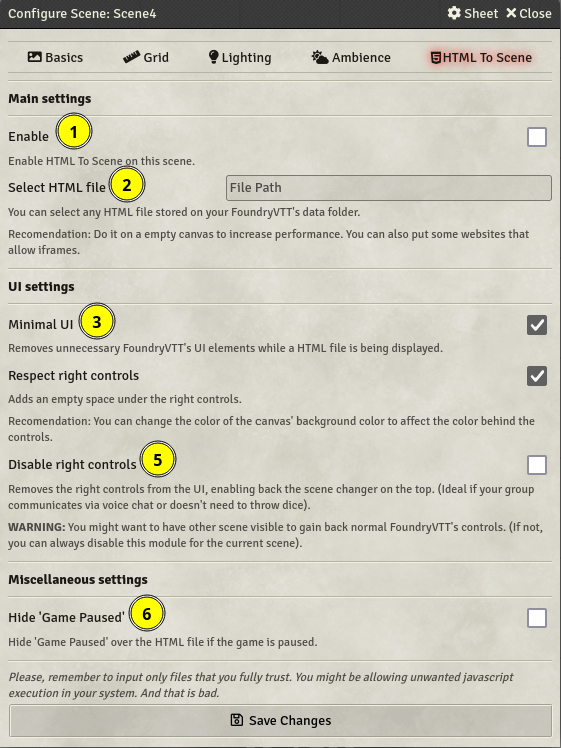
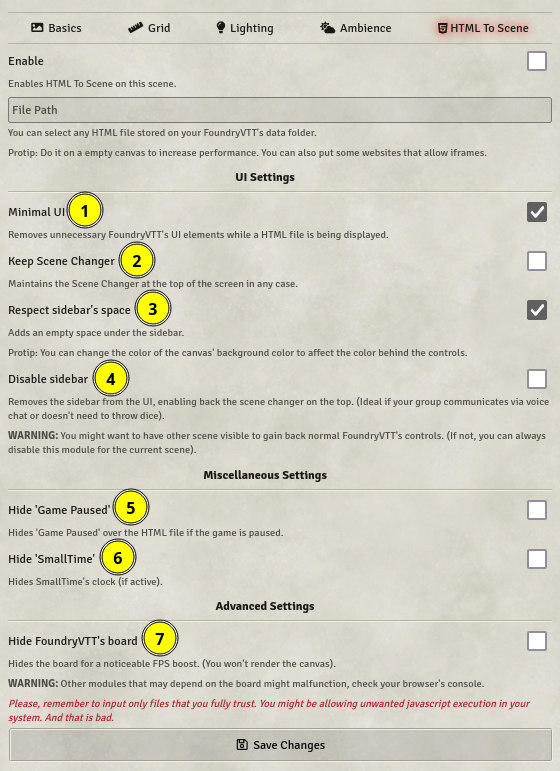
v1.1.0

diff --git a/templates/sceneSettings.html b/templates/sceneSettings.html
@@ -1,7 +1,4 @@
 <div class="tab" data-tab="htmltoscene">
-	<hr>
-	<label style="text-align:center;font-weight: bold;">{{ localize "htmltoscene.mainsettings" }}</label>
-	<hr>
 	<div class="form-group">
 		<label>{{ localize "htmltoscene.enable.name" }}</label>
 		<input type="checkbox" name="flags.htmltoscene.enable" data-dtype="Boolean" {{#if enable}} checked{{/if}}>
@@ -20,8 +17,7 @@
 		<p class="notes">{{ localize "htmltoscene.fileLoc.hint"}}</p>
 		<p class="notes">{{ localize "htmltoscene.recommendationtip" }}{{ localize "htmltoscene.fileLoc.tip" }}</p>
 	</div>
-	<hr>
-	<label style="text-align:center;font-weight: bold;">{{ localize "htmltoscene.uisettings" }}</label>
+	<p style="text-align:center;font-weight: bold;padding-right:30px">{{ localize "htmltoscene.uisettings" }}</p>
 	<hr>
 	<div class="form-group">
 		<label>{{ localize "htmltoscene.minUI.name" }}</label>
@@ -48,8 +44,7 @@
 		<p class="notes"><b>{{ localize "htmltoscene.warningtip" }}</b>{{ localize "htmltoscene.rightDisabled.tip" }}
 		</p>
 	</div>
-	<hr>
-	<label style="text-align:center;font-weight: bold;">{{ localize "htmltoscene.miscsettings" }}</label>
+	<p style="text-align:center;font-weight: bold;padding-right:30px">{{ localize "htmltoscene.miscsettings" }}</p>
 	<hr>
 	<div class="form-group">
 		<label>{{ localize "htmltoscene.hidePaused.name" }}</label>
@@ -63,6 +58,15 @@
 			checked{{/if}}>
 		<p class="notes">{{ localize "htmltoscene.hideSmallTime.desc" }}</p>
 	</div>
+	<p style="text-align:center;font-weight: bold;padding-right:30px">{{ localize "htmltoscene.advsettings" }}</p>
 	<hr>
-	<p class="notes" style="font-style:italic;">{{ localize "htmltoscene.rememberjsexecution" }}</p>
+	<div class="form-group">
+		<label>{{ localize "htmltoscene.hideBoard.name" }}</label>
+		<input type="checkbox" name="flags.htmltoscene.hideBoard" data-dtype="Boolean" {{#if hideBoard}}
+			checked{{/if}}>
+		<p class="notes">{{ localize "htmltoscene.hideBoard.desc" }}</p>
+		<p class="notes"><b>{{ localize "htmltoscene.warningtip" }}</b>{{ localize "htmltoscene.hideBoard.tip" }}
+		</p>
+	</div>
+	<p class="notes" style="font-style:italic;color:brown">{{ localize "htmltoscene.rememberjsexecution" }}</p>
 </div>

diff --git a/scripts/core.js b/scripts/core.js
@@ -39,6 +39,10 @@ class HTMLToScene {
 		return false;
 	}
 
+	static get disableBoard() {
+		return false;
+	}
+
 	/** @type {Object} */
 	static get flags() {
 		return canvas.scene.data.flags;
@@ -83,6 +87,10 @@ class HTMLToScene {
 		return Boolean(
 			this.flags.htmltoscene?.hideSmallTime ?? this.disableSmallTime
 		);
+	}
+
+	static get hideBoard() {
+		return Boolean(this.flags.htmltoscene?.hideBoard ?? this.disableBoard);
 	}
 
 	static init(...args) {
@@ -172,6 +180,12 @@ class HTMLToScene {
 		if (this.keepTop == true)
 			$('#ui-top').css({ display: 'inline-block', 'margin-left': '130px' });
 
+		if (this.hideBoard == true) {
+			$('#board').hide();
+		} else {
+			$('#board').show();
+		}
+
 		this.updateSmallTime();
 	}
 	/**
@@ -197,6 +211,7 @@ class HTMLToScene {
 			//To prevent the game paused indicator to reappear on other scene.
 			$('#pause').show();
 		}
+		$('#board').show();
 		$('#smalltime-app').show();
 	}
 
@@ -220,6 +235,20 @@ class HTMLToScene {
 	static updateWidth() {
 		if (this.enabled && this.spaceRight) {
 			$('#htmltoiframe').width(this.calcSpacedWidth());
+		}
+	}
+
+	/**
+	 * Updates paused status after load.
+	 */
+	static pauseControl() {
+		if (this.enabled) {
+			if (game.paused) {
+				//To prevent the game paused indicator to reappear on other scene.
+				$('#pause').show();
+			} else {
+				$('#pause').hide();
+			}
 		}
 	}
 
@@ -347,7 +376,9 @@ Hooks.on('renderSceneConfig', (...args) =>
 Hooks.on('canvasReady', (...args) => HTMLToScene.replace(...args));
 Hooks.on('updateScene', (...args) => HTMLToScene.replace(...args));
 Hooks.on('canvasPan', () => HTMLToScene.updateWidth());
+Hooks.on('collapseSidebar', () => HTMLToScene.updateWidth());
 Hooks.on('renderSmallTimeApp', () => HTMLToScene.updateSmallTime());
+Hooks.on('pauseGame', () => HTMLToScene.pauseControl());
 
 Hooks.on('diceSoNiceReady', () => {
 	HTMLToScene.swapPosition('dice-box-canvas');
